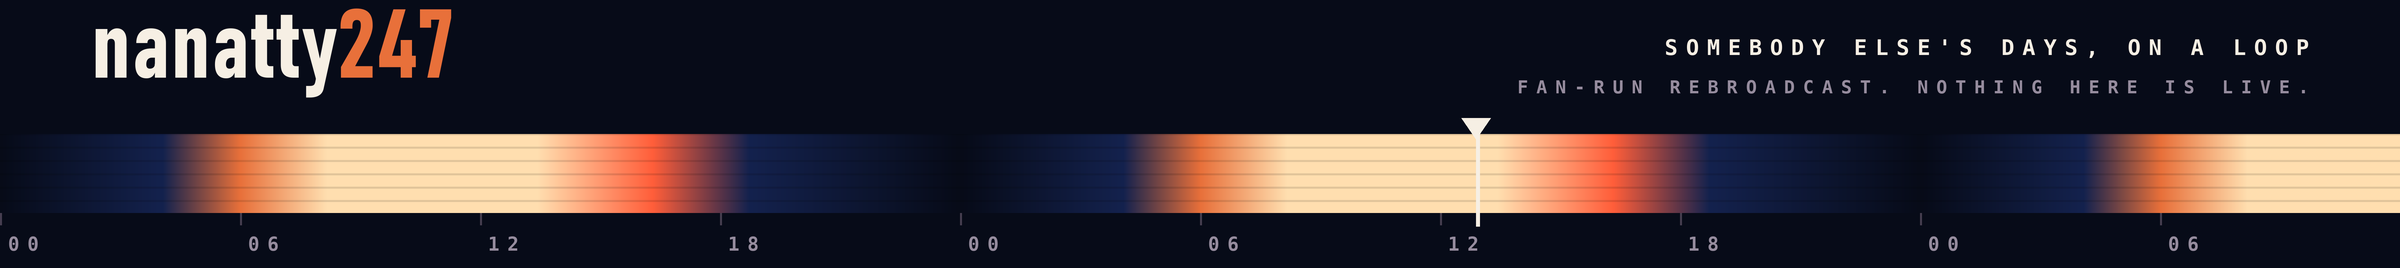
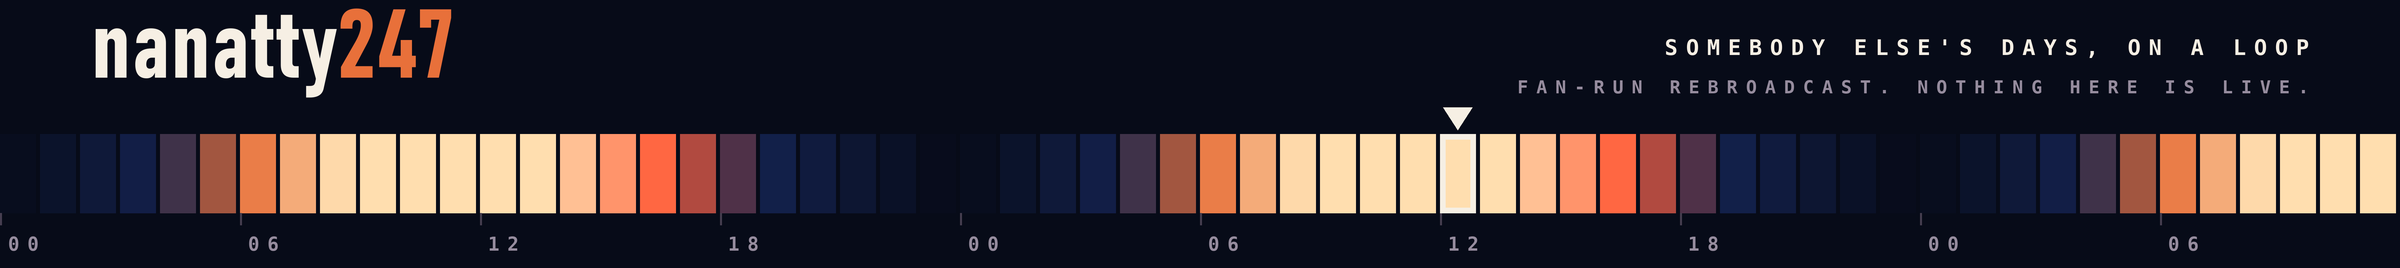
Build both marks out of the same twenty four hours
The sunrise was pretty and it was stock: the same picture sits behind half the
lo-fi channels on the internet, and the banner's smooth ramp under it was
decoration, something you look at rather than read.

Both are blocks now, an hour each, from one ramp. The banner is the day
unrolled and the avatar is the same day bent into a ring, so the two read as
one channel instead of two ideas. Blocks also say what a gradient cannot: the
day is the unit here, which is the whole point of a channel airing five to
fifteen hour streams.

The playhead took three tries. Drawn through the ring it was a white thread
nobody could see; colouring the current hour white fails on a pale afternoon,
where it disappears into its neighbours. It sits in the dark now, outside the
ring on the avatar and above the strip on the banner, ringing the hour it
points at rather than crossing it.

Changed region(s): [[0.4375, 0.3881, 0.75, 0.806], [0.0625, 0.4776, 0.3438, 0.806], [0.8438, 0.4776, 1.0, 0.806]]

diff --git a/tools/brand.py b/tools/brand.py
@@ -116,65 +116,68 @@ def width_of(d, text, font, tracking):
     return sum(d.textlength(c, font=font) + tracking for c in text) - tracking
 
 
-def avatar(channel, size=1024):
-    """A sunrise, drawn to the edges because Kick crops it to a circle.
+def hour_colour(hour):
+    """The colour of an hour of the day, 0 to 24.
 
-    No letters in it. The channel name is shown beside the avatar everywhere it
-    appears, so spending the mark on repeating it buys nothing, and at forty
-    pixels a word is a smudge while a warm band with a bright dot is still a
-    warm band with a bright dot.
+    One ramp, used by both surfaces: the banner is this unrolled and the avatar
+    is the same thing bent into a circle. Two marks built from one idea read as
+    one channel; two marks built from two ideas read as two.
+    """
+    cycle = [(0.00, NIGHT), (0.17, DEEP), (0.26, DAWN), (0.36, NOON),
+             (0.58, NOON), (0.70, DUSK), (0.80, DEEP), (1.00, NIGHT)]
+    row = ramp(cycle, 24 * 8, vertical=False)[0]
+    return tuple(int(v) for v in row[min(int(hour / 24 * 24 * 8), 24 * 8 - 1)])
+
+
+def avatar(channel, size=1024, now_hour=14.5):
+    """A day as a dial: twenty four blocks of an hour, and a mark on the one
+    that is playing.
+
+    The draft before this was a sunrise with scanlines over it. It was pretty
+    and it was stock: the same picture sits behind half the lo-fi channels on
+    the internet and said nothing about this one. Blocks say something. They
+    say the day is the unit here, which is exactly what a channel airing five
+    to fifteen hour streams is about.
+
+    Drawn edge to edge because Kick crops it to a circle. At the forty pixels
+    it becomes beside a chat message the blocks blur into one warm-to-dark ring
+    with a bright nick in it, which is still nobody else's avatar.
     """
     s = size * SCALE
-    # High, so the black below it stays a base and does not become half the
-    # mark: at forty pixels the useful part is the band, and a horizon at the
-    # middle left it two pixels tall.
-    horizon = 0.660
-
-    sky = Image.fromarray(np.repeat(ramp([
-        (0.000, NIGHT), (0.260, (12, 20, 50)), (0.440, DEEP),
-        (0.560, BLUE_HOUR), (0.614, DAWN), (horizon, GLOW),
-    ], s), s, axis=1))
-
-    im = sky.copy()
+    im = Image.new("RGB", (s, s), (6, 8, 16))
     d = ImageDraw.Draw(im)
 
-    # the sun, sitting in the horizon rather than above it: the land is drawn
-    # over its lower third a few lines down
-    r = int(s * 0.190)
-    cx, cy = int(s * 0.430), int(s * 0.600)
-    # the halo first, added rather than pasted, so it lights the sky instead of
-    # sitting on it as a grey disc
-    glow = Image.new("RGB", (s, s), (0, 0, 0))
-    ImageDraw.Draw(glow).ellipse([cx - r * 2.2, cy - r * 2.2, cx + r * 2.2, cy + r * 2.2],
-                                 fill=(96, 44, 20))
-    im = ImageChops.add(im, glow.filter(ImageFilter.GaussianBlur(s * 0.07)))
-    d = ImageDraw.Draw(im)
-    # the disc itself is not one flat colour: it cools towards the top and
-    # burns where it meets the haze, which is what keeps it from reading as a
-    # sticker
-    body = Image.fromarray(np.repeat(ramp([
-        (0.0, (255, 241, 214)), (0.6, NOON), (1.0, (255, 178, 104)),
-    ], 2 * r), 2 * r, axis=1))
-    disc = Image.new("L", (2 * r, 2 * r), 0)
-    ImageDraw.Draw(disc).ellipse([0, 0, 2 * r - 1, 2 * r - 1], fill=255)
-    im.paste(body, (cx - r, cy - r), disc)
+    outer = int(s * 0.412)
+    thick = int(s * 0.140)
+    box = [s // 2 - outer, s // 2 - outer, s // 2 + outer, s // 2 + outer]
+    gap = 1.6  # degrees, so the blocks read as blocks and not as a gradient
 
-    land = Image.fromarray(np.repeat(ramp([
-        (0.0, (14, 12, 20)), (0.25, LAND), (1.0, (3, 4, 8)),
-    ], s - int(s * horizon)), s, axis=1))
-    im.paste(land, (0, int(s * horizon)))
-    # the line itself, thin and bright, where the light stops
-    d.rectangle([0, int(s * horizon) - int(s * 0.004), s, int(s * horizon)],
-                fill=(255, 176, 110))
+    # midnight at the top, noon at the bottom, clockwise. PIL measures from
+    # three o'clock, hence the quarter turn.
+    for hour in range(24):
+        a0 = hour * 15 - 90 + gap / 2
+        d.arc(box, start=a0, end=a0 + 15 - gap, fill=hour_colour(hour + 0.5),
+              width=thick)
 
-    tape(im, max(2, int(s * 0.019)), 20)
+    # No glow in the middle. A blurred warm ellipse in there read as a stain on
+    # the lens rather than as light, and the dial is stronger as a clean ring
+    # around a hole.
 
-    # a vignette, so the disc still reads as a disc once Kick rounds it off
-    vg = Image.new("L", (s, s), 0)
-    ImageDraw.Draw(vg).ellipse([int(-s * 0.18)] * 2 + [int(s * 1.18)] * 2, fill=255)
-    vg = vg.filter(ImageFilter.GaussianBlur(s * 0.06))
-    im = Image.composite(im, Image.new("RGB", (s, s), (2, 3, 7)), vg)
+    # The playhead sits in the dark margin OUTSIDE the ring, not across it.
+    # Drawn through the blocks it was a white thread nobody could see, and
+    # colouring the current block white fails too: land it on a pale afternoon
+    # hour and it disappears into its neighbours. The margin is dark all the way
+    # round, so a warm mark there reads whatever hour it points at.
+    import math
+    a = math.radians(now_hour * 15 - 90)
+    side = math.radians(4.6)
+    tip, base = outer + s * 0.012, outer + s * 0.064
+    d.polygon([(s / 2 + tip * math.cos(a), s / 2 + tip * math.sin(a)),
+               (s / 2 + base * math.cos(a - side), s / 2 + base * math.sin(a - side)),
+               (s / 2 + base * math.cos(a + side), s / 2 + base * math.sin(a + side))],
+              fill=WARM)
 
+    tape(im, max(2, int(s * 0.024)), 9)
     return im.resize((size, size), Image.LANCZOS)
 
 
@@ -191,24 +194,25 @@ def banner(channel, width=2400, height=268):
     im = Image.new("RGB", (w, h), NIGHT)
     d = ImageDraw.Draw(im)
 
-    # two and a half days across the strip, starting before dawn
-    cycle = [(0.00, NIGHT), (0.17, DEEP), (0.25, DAWN), (0.34, NOON),
-             (0.56, NOON), (0.68, DUSK), (0.78, DEEP), (1.00, NIGHT)]
+    # Two and a half days, an hour to a block. Blocks rather than a smooth
+    # ramp, and the same twenty four the avatar is made of: a gradient is
+    # decoration and you read nothing off it, while blocks are a timetable and
+    # you can count them. Unrolled here, rolled up there, one idea twice.
     days = 2.5
-    n = int(w * days)
-    row = ramp(cycle, int(w / days) + 1, vertical=False)[0]
-    strip = np.concatenate([row] * (int(days) + 1), axis=0)[:w]
+    per = w / days
+    block = per / 24
+    gap = max(1, int(block * 0.11))
     top, bot = int(h * 0.50), int(h * 0.795)
-    im.paste(Image.fromarray(np.repeat(strip.reshape(1, w, 3), bot - top, axis=0)),
-             (0, top))
-    # crop() hands back a copy, so the lines have to be pasted back or they are
-    # drawn on an image nobody keeps
-    im.paste(tape(im.crop((0, top, w, bot)), max(2, int(h * 0.05)), 30), (0, top))
+    k = 0
+    while k * block < w:
+        x = k * block
+        d.rectangle([int(x), top, int(x + block) - gap, bot],
+                    fill=hour_colour(k % 24 + 0.5))
+        k += 1
 
     # hours under it, small, so the strip reads as a clock and not as a ribbon
     hours = ImageFont.truetype(MONO, int(h * 0.072))
     track = h * 0.03
-    per = w / days
     for k in range(int(days * 4) + 1):
         x = k * per / 4
         if x > w - h * 0.1:
@@ -218,13 +222,18 @@ def banner(channel, width=2400, height=268):
                     fill=(70, 62, 80))
         tracked(d, (x + h * 0.03, bot + int(h * 0.075)), label, hours, MUTED, track)
 
-    # the playhead: a line and a head, the only bright vertical thing here
-    px = int(w * 0.615)
-    d.rectangle([px, top - int(h * 0.06), px + max(2, int(w * 0.0016)), bot + int(h * 0.05)],
-                fill=WARM)
+    # The playhead marks the hour by ringing its block, not by drawing a line
+    # through it: run across a pale afternoon the line vanished, which is the
+    # same contrast problem the avatar's marker had. The head stays above, in
+    # the dark, where it is legible whatever colour the hour is.
+    which = int(w * 0.615 / block)
+    bx = which * block
     head = int(h * 0.055)
-    d.polygon([(px - head, top - int(h * 0.06)), (px + head, top - int(h * 0.06)),
-               (px, top + int(h * 0.02))], fill=WARM)
+    d.rectangle([int(bx), top, int(bx + block) - gap, bot],
+                outline=WARM, width=max(2, int(h * 0.022)))
+    mid = int(bx + (block - gap) / 2)
+    d.polygon([(mid - head, top - int(h * 0.10)), (mid + head, top - int(h * 0.10)),
+               (mid, top - int(h * 0.015))], fill=WARM)
 
     pad = int(w * 0.038)
     title = display(int(h * 0.36))
